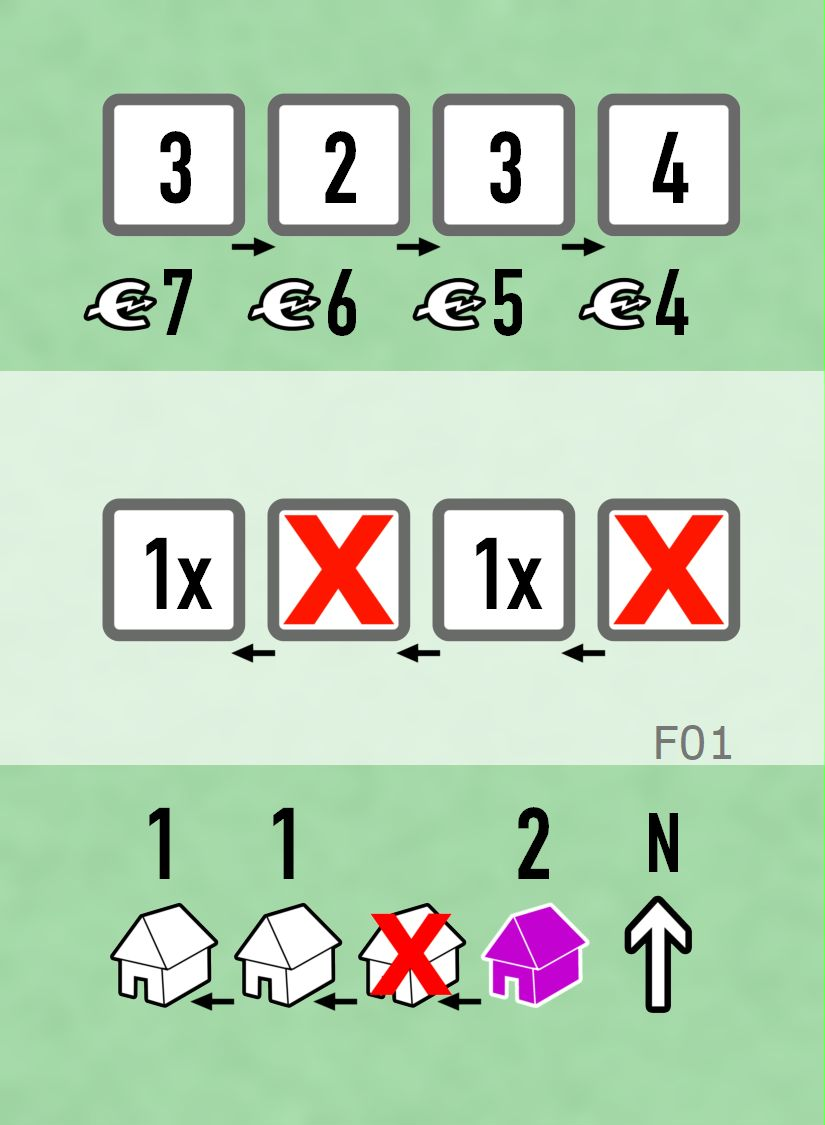
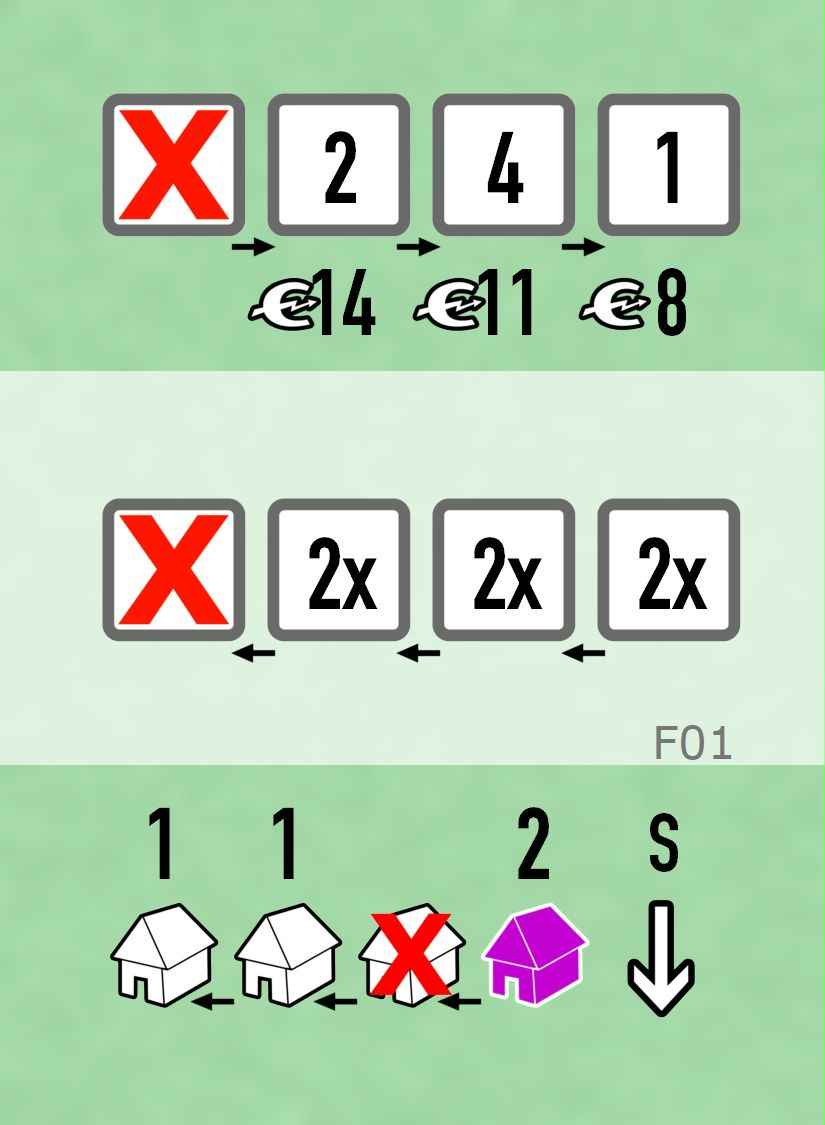
v1.3 - Harder automa

diff --git a/generate.py b/generate.py
@@ -3,12 +3,12 @@ import itertools
 import random
 import simulate
 
-GAMES_TO_SIMULATE = 1000
+GAMES_TO_SIMULATE = 1
 
 builds = [0,0,1,1,1,1,1,1,1,1,1,1,1,1,2,2,2,2,2,2,2,2,2,2]
 market_slots = [1,2,3,4]
 compass = [1,2,3,4,5,6,7,8]
-ante = [2,2,2,2,2,2,2,2,2,3,3,3,3,4,4,4,5,5,5,6,6,6,7,7]
+ante = [3,3,3,7,7,7,7,10,10,10,10,10,10,10,14,14,14,14,14,14,18,18,18,20]
 resource = [2,2,2,2,2,2,2,2,2,3,3,3,3,3,3,3,3,4,4,4,4,4,4,4]
 mults = [1,1,1,1,1,1,1,1,1,1,1,1,1,2,2,2,2,2,2,2,2,2,2,2,2]
 builders = [1,2,3,4]
@@ -41,31 +41,33 @@ manual_markets = [
     [3,2,1,1],
 ]
 manual_builds = [
-    [1,0,1,1],
-    [1,2,1,2],
-    [1,0,2,1],
-    [1,2,1,1],
-    [1,1,2,1],
-    [1,2,2,1],
-    [1,1,2,1],
-    [2,1,1,2],
-    [1,1,2,1],
-    [1,2,1,1],
+    [1,0,3,1],
+    [1,1,0,2],
+    [1,1,1,3],
+    [1,2,1,3],
+    [1,1,2,3],
+    [1,1,3,1],
+    [1,1,3,2],
+    [1,2,3,0],
+    [1,2,3,1],
+    [1,2,3,1],
+    [1,3,1,1],
+    [1,3,1,2],
+    [1,3,1,2],
+    [1,3,1,2],
+    [1,3,2,1],
     [2,1,1,1],
-    [2,2,1,1],
-    [1,1,2,0],
-    [2,1,1,1],
-    [1,2,1,2],
-    [2,1,1,2],
-    [1,2,2,1],
-    [2,2,1,1],
-    [1,1,2,2],
-    [1,1,1,2],
-    [2,1,1,1],
-    [1,1,1,1],
-    [1,1,2,2],
-    [1,1,0,2]
+    [2,1,2,1],
+    [2,1,3,1],
+    [2,1,3,1],
+    [2,3,1,1],
+    [2,3,1,1],
+    [2,4,0,1],
+    [3,1,1,3],
+    [4,1,1,1]
 ]
+house_total = sum([sum(x) for x in manual_builds])
+print(f'The automa can build [{house_total/3}] houses with the deck')
 manual_resources = [
     [0,1,0,1],
     [1,0,1,0],
@@ -135,9 +137,14 @@ for ii in range(0,deck_count):
 
     passer = None if not -1 in market else market.index(-1) + 1
     base_ante = ante[ii % len(ante)]
+    ante_delta = 1
+    if base_ante > 5:
+        ante_delta = 3
+    if base_ante == 20:
+        ante_delta = 4
     antes = []
     for jj in range(0,len(market)):
-        next_ante = base_ante - jj
+        next_ante = base_ante - (ante_delta * jj)
         if next_ante < 0:
             next_ante = 0
         antes.append(next_ante)
@@ -229,7 +236,7 @@ def calc_build(amounts):
 manual_build_totals = [calc_build(x) for x in manual_builds]
 manual_build_totals.sort()
 while low_city < city_max:
-    if low_index > 19:
+    if low_index > 8:
         low_index = 0
     low_city += manual_build_totals[low_index]
     low_index += 1
@@ -240,7 +247,7 @@ high_city = 0
 high_turn = 0
 high_index = 23
 while high_city < city_max:
-    if high_index < 4:
+    if high_index < 15:
         high_index = 23
     high_city += manual_build_totals[high_index]
     high_index -= 1
